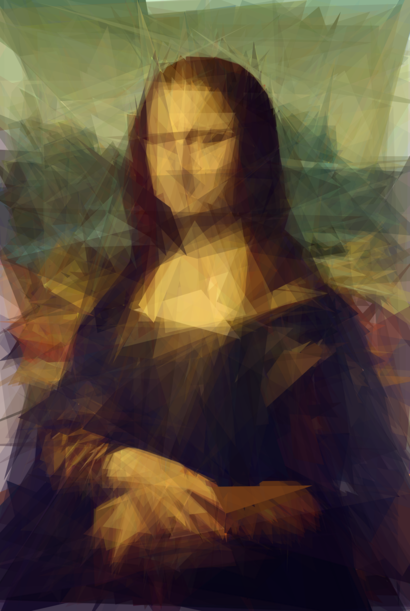
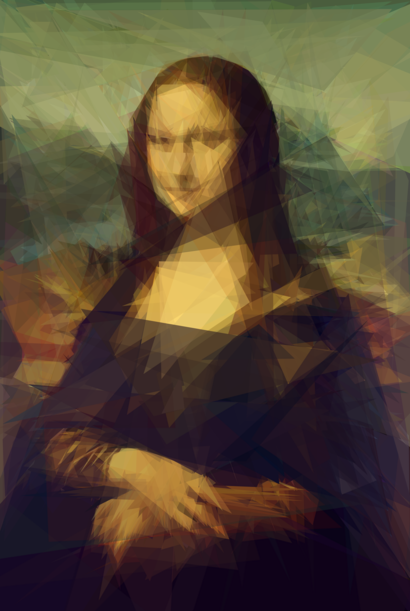
improved mutation parameters

diff --git a/src/Triangle.cpp b/src/Triangle.cpp
@@ -11,6 +11,15 @@ i64 Triangle::area() const {
     return std::abs((b.x - a.x) * (c.y - a.y) - (c.x - a.x) * (b.y - a.y));
 }
 
+i64 Triangle::squareDistance(Triangle const& other) const {
+    Point<i32> center = (a + b + c) / 3;
+    Point<i32> otherCenter = (other.a + other.b + other.c) / 3;
+
+    i64 dx = center.x - otherCenter.x;
+    i64 dy = center.y - otherCenter.y;
+    return dx * dx + dy * dy;
+}
+
 static i32 fineAdjust(i32 range) {
     return randomI32(-range, range);
 }
@@ -28,12 +37,12 @@ bool Triangle::mutateFineColor() {
     color.r = fineAdjustColor(color.r, 25);
     color.g = fineAdjustColor(color.g, 25);
     color.b = fineAdjustColor(color.b, 25);
-    color.a = fineAdjustColor(color.a, 25);
+    color.a = std::max<u8>(fineAdjustColor(color.a, 25), 30);
     return true;
 }
 
 bool Triangle::mutateFineMoveX() {
-    i32 dx = fineAdjust(5);
+    i32 dx = fineAdjust(10);
     a.x += dx;
     b.x += dx;
     c.x += dx;
@@ -41,7 +50,7 @@ bool Triangle::mutateFineMoveX() {
 }
 
 bool Triangle::mutateFineMoveY() {
-    i32 dy = fineAdjust(5);
+    i32 dy = fineAdjust(10);
     a.y += dy;
     b.y += dy;
     c.y += dy;
@@ -49,7 +58,7 @@ bool Triangle::mutateFineMoveY() {
 }
 
 bool Triangle::mutateFineScale() {
-    f64 scale = randomF64(0.9, 1.1);
+    f64 scale = randomF64(0.8, 1.2);
 
     // Scale the triangle around its center
     Point<f64> center = (a + b + c) / 3.0;
@@ -65,7 +74,7 @@ bool Triangle::mutateFineRotate() {
                           p.x * std::sin(angle) + p.y * std::cos(angle)};
     };
 
-    f64 angle = randomF64(-0.1, 0.1);
+    f64 angle = randomF64(-0.15, 0.15);
 
     // Rotate the triangle around its center
     Point<f64> center = (a + b + c) / 3.0;

diff --git a/src/Individual.cpp b/src/Individual.cpp
@@ -54,11 +54,39 @@ bool Individual::mutateRemove() {
     return true;
 }
 
+template<typename F>
+static i32 select(i32 n, F&& f) {
+    std::vector<std::pair<double, i32>> probs;
+    probs.reserve(n);
+
+    f64 total = 0;
+    for (i32 i = 0; i < n; i++) {
+        std::pair<double, i32> p = f(i);
+
+        probs.emplace_back(p);
+        total += p.first;
+    }
+
+    f64 prob = randomF64(0, total);
+    i32 i = 0;
+    while (prob > probs[i].first) {
+        prob -= probs[i].first;
+        i++;
+    }
+
+    return probs[i].second;
+}
+
 bool Individual::mutateReplace() {
     if (triangles.empty())
         return false;
 
-    i32 i = randomI32(0, size() - 1);
+    i32 i = select(triangles.size(), [&](i32 i) {
+        f64 prob = 1.0 / (std::sqrt(triangles[i].area()) * triangles[i].color.a);
+
+        return std::make_pair(prob, i);
+    });
+    
     i32 j = randomI32(0, size() - 1);
     triangles.erase(begin() + i);
     triangles.insert(begin() + j, randomTriangle());
@@ -83,9 +111,14 @@ bool Individual::mutateMerge() {
         return false;
 
     i32 i = randomI32(0, size() - 1);
-    i32 j = randomI32(0, size() - 2);
-    if (j >= i)
-        j++;
+    i32 j = select(size() - 1,
+        [&](i32 j) {
+            if (j >= i) ++j;
+
+            f64 prob = 1.0 / std::sqrt(triangles[i].squareDistance(triangles[j]));
+            return std::make_pair(prob, j);
+        }
+    );
 
     triangles[i].merge(triangles[j]);
     triangles.erase(begin() + j);

diff --git a/src/GlobalConfig.cpp b/src/GlobalConfig.cpp
@@ -167,24 +167,24 @@ void GlobalConfig::loadConstants() {
     svgScale = 16;
 
     // Number of individuals in the population
-    populationSize = 100;
+    populationSize = 200;
 
     // Number of triangles in each individual
     numTriangles = 100;
     maxTriangles = 1100; 
 
     // Number of elite individuals
-    eliteSize = 1;
-    eliteBreedPoolSize = 10;
+    eliteSize = 2;
+    breedPoolSize = 20;
 
     // Mutation parameters
     //   * Probabilities are mutually exclusive, they must sum to <= 1
     mutationChanceAdd = 0.05;
-    mutationChanceRemove = 0.1;
-    mutationChanceReplace = 0.05;
+    mutationChanceRemove = 0.05;
+    mutationChanceReplace = 0.2;
     mutationChanceSwap = 0.05;
-    mutationChanceMerge = 0.2;
-    mutationChanceShape = 0.55;
+    mutationChanceMerge = 0.15;
+    mutationChanceShape = 0.5;
 
     // Shape-specific mutation parameters 
     //   * Probabilities are mutually exclusive, they must sum to <= 1

diff --git a/src/Population.cpp b/src/Population.cpp
@@ -69,7 +69,7 @@ Population Population::breed() const {
     for (i32 i = 0; i < ELITE; ++i)
         nextGen.individuals.push_back(individuals[idx[i]]);
 
-    std::uniform_int_distribution<i32> dist(0, globalCfg.eliteBreedPoolSize - 1);
+    std::uniform_int_distribution<i32> dist(0, globalCfg.breedPoolSize - 1);
 
     while (nextGen.individuals.size() < individuals.size()) {
         i32 parent1 = dist(globalRNG);

diff --git a/src/GlobalConfig.hpp b/src/GlobalConfig.hpp
@@ -30,7 +30,7 @@ struct GlobalConfig {
 
     // Number of elite individuals
     i32 eliteSize;
-    i32 eliteBreedPoolSize;
+    i32 breedPoolSize;
 
     // Fitness engine
     const char* fitnessEngine;

diff --git a/src/Triangle.hpp b/src/Triangle.hpp
@@ -14,6 +14,8 @@ struct Triangle {
 
     i64 area() const;
 
+    i64 squareDistance(Triangle const& other) const;
+
     bool mutateFineColor();
     bool mutateFineMoveX();
     bool mutateFineMoveY();
